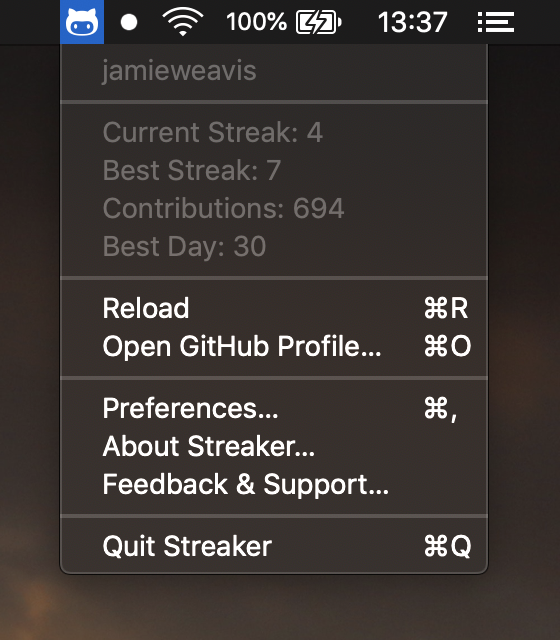
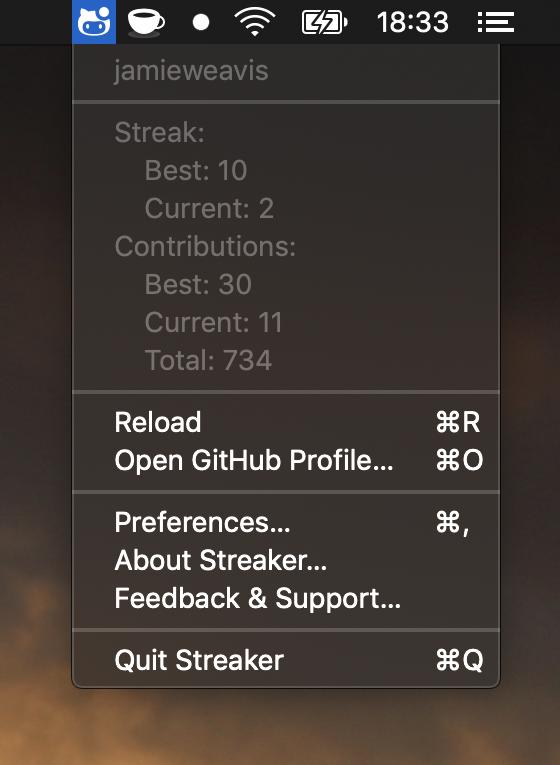
Add hierarchical menu item labels

Changed region(s): [[0.0, 0.0, 1.0, 1.0], [0.6679, 0.0, 0.8196, 0.0625]]

diff --git a/src/app.js b/src/app.js
@@ -59,7 +59,7 @@ app.on('ready', () => {
     preferencesWindow.focus();
   }
 
-  function createTrayMenu(data = {}) {
+  function createTrayMenu(data = { streak: {}, contributions: {} }) {
     return Menu.buildFromTemplate([
       {
         label: store.get('username') || 'Set username...',
@@ -67,10 +67,19 @@ app.on('ready', () => {
         click: onPreferencesClick,
       },
       { type: 'separator' },
-      { label: `Current Streak: ${data.currentStreak || 0}`, enabled: false },
-      { label: `Best Streak: ${data.bestStreak || 0}`, enabled: false },
-      { label: `Contributions: ${data.contributions || 0}`, enabled: false },
-      { label: `Best Day: ${data.bestDay || 0}`, enabled: false },
+      { label: 'Streak:', enabled: false },
+      { label: `    Best: ${data.streak.best || 0}`, enabled: false },
+      { label: `    Current: ${data.streak.current || 0}`, enabled: false },
+      { label: 'Contributions:', enabled: false },
+      { label: `    Best: ${data.contributions.best || 0}`, enabled: false },
+      {
+        label: `    Current: ${data.contributions.current || 0}`,
+        enabled: false,
+      },
+      {
+        label: `    Total: ${data.contributions.total || 0}`,
+        enabled: false,
+      },
       { type: 'separator' },
       {
         label: 'Reload',
